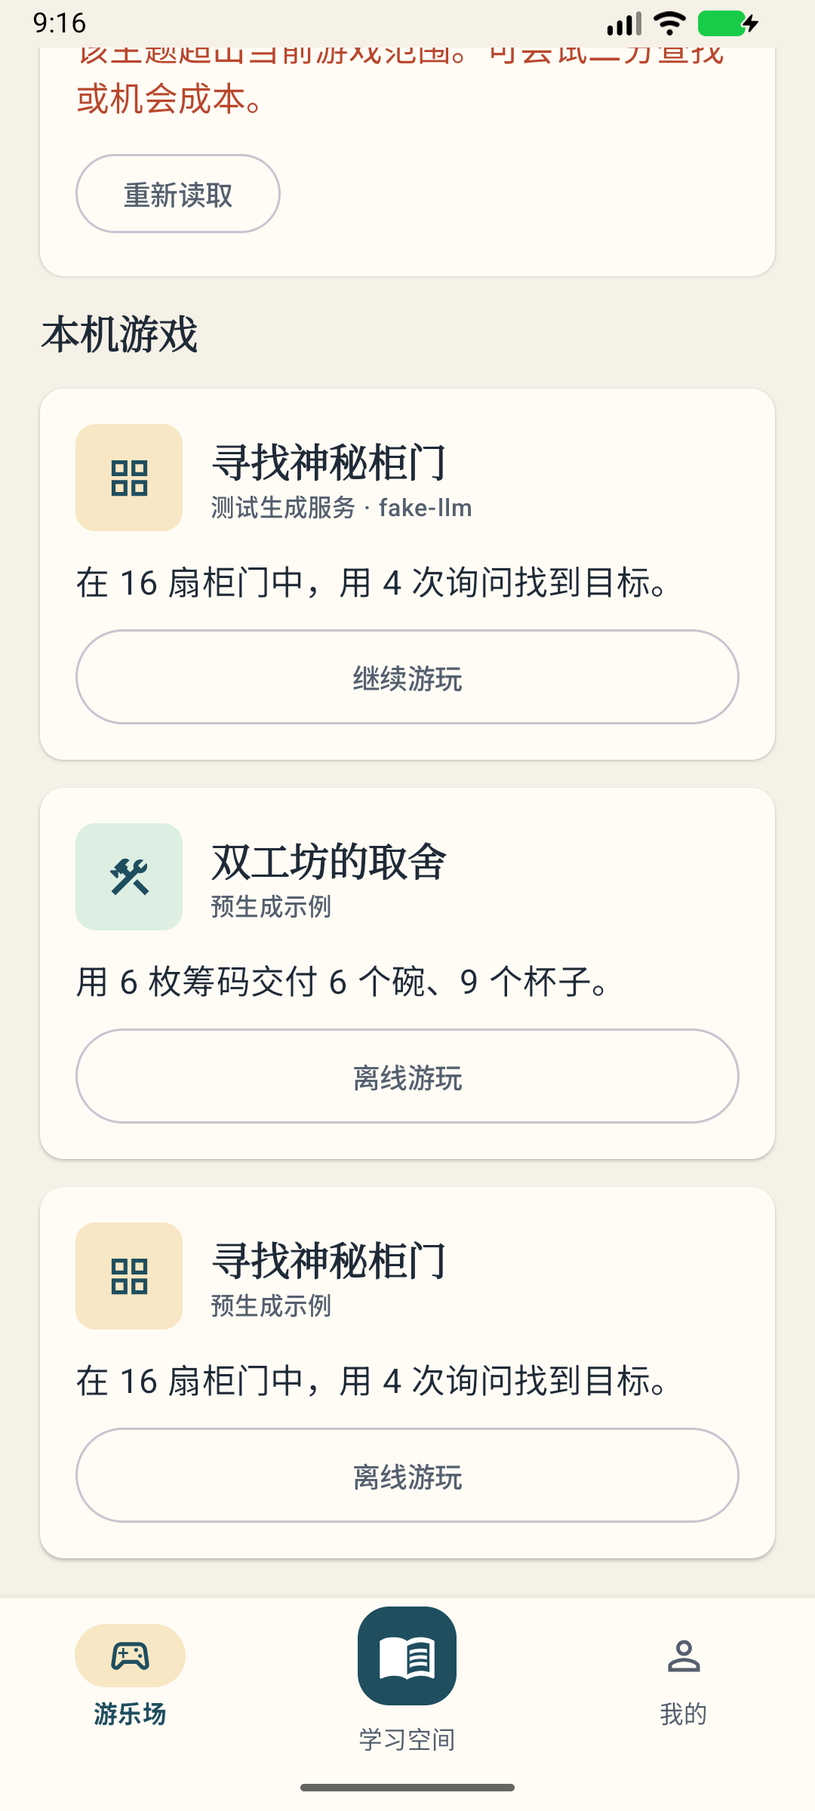
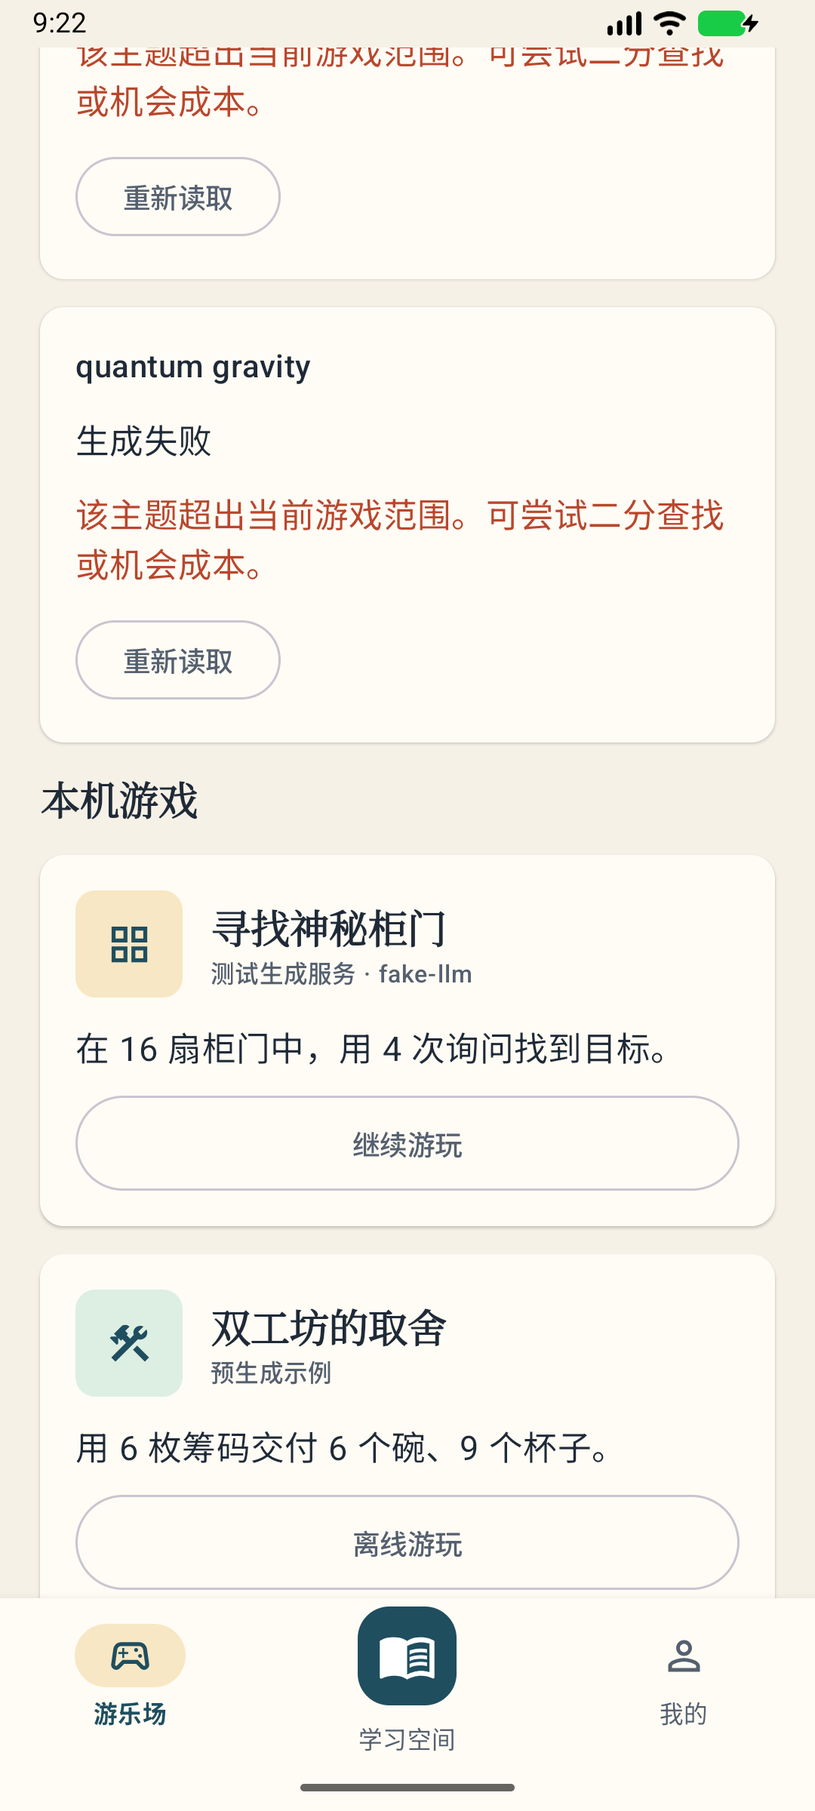
docs: finalize verified games and Spaces release evidence

diff --git a/docs/design/concept-games-spaces-acceptance.md b/docs/design/concept-games-spaces-acceptance.md
@@ -1,6 +1,6 @@
 # Concept games and Spaces — acceptance record
 
-**Scope:** Verification of the API edition's 2026-11-23 update. This record distinguishes automated behavior, Android device observations and untested provider quality. **Final verification in progress:** device scenarios below have run; the Classic selector finding and final branch review are still pending.
+**Scope:** Verification of the API edition's 2026-11-23 update. This record distinguishes automated behavior, Android device observations and untested provider quality. **Verification complete:** final runtime `f54fe7d` passed the automated suites, scoped review and affected device checks. Non-blocking status-cache issues are documented below.
 
 Design: [approved user journeys and repository research](../superpowers/specs/2026-11-23-concept-games-spaces-design.md). Implementation: [shared architecture and API](../architecture/concept-games-spaces.md).
 
@@ -23,7 +23,8 @@ Design: [approved user journeys and repository research](../superpowers/specs/20
 | `f9a6740`, Android data and shared modules | 257 Android + 58 engine + 68 contract tests passed, zero skips. One existing Compose source-reader journey had a transient missing-button failure on the first full run, then passed in a focused run and the unchanged full repeat. |
 | `9180838`, server against final shared runtime | 222 server tests passed, zero failures/errors/skips, including the 42 PostgreSQL cases; fresh run in 29s. |
 | `09c4b74`, final Space migration corrections | 32 recovery/integration/data tests passed, zero skips; normal removal and explicit dismissal both discard unsent membership changes derived from a rejected ADD, and lost acknowledgements preserve the original request. |
-| `9180838`, UI recovery round 1 | 286 Android + 58 engine + 68 contract tests passed, zero failures/errors/skips. Debug APK assembly and direct-AI-access guard passed; lint has zero errors and 66 warnings. The controller independently counted the XML results. Task review approved after the focused sharing correction below; device/final-branch gate pending. |
+| `9180838`, UI recovery round 1 | 286 Android + 58 engine + 68 contract tests passed, zero failures/errors/skips. Debug APK assembly and direct-AI-access guard passed; lint has zero errors and 66 warnings. The controller independently counted the XML results. Task review approved after the focused sharing correction below; device/final-branch gate pending at that revision. |
+| `f54fe7d`, consolidated final corrections | Fresh execution: 303 Android + 228 server + 68 contract + 58 engine = **657 passed**, zero failures/errors/skips, including **45 real PostgreSQL** tests. Lint: zero errors, 66 warnings; direct-AI guard and assembly passed. Controller independently counted all XML reports. |
 
 The UI full run initially exposed two fixture timing races (profile switch after refresh and tapping Start after a diagnostic transition). Their waits were corrected without removing the avatar/profile or source attachment assertions; the fresh complete run passed in 4m 21s. Existing Compose test API deprecation and JDK/Robolectric native-access warnings remain.
 
@@ -35,7 +36,9 @@ The data regressions exercise interrupted practice and tutor writes, concurrent 
 
 ## Device acceptance and screenshots
 
-The real APK was upgraded in place at `a5c204d`. [Screenshot gallery](screens/2026-11-23-concept-games-spaces/) contains unaltered emulator captures, visually inspected; the earlier HTML prototype is not acceptance evidence.
+The dedicated emulator crash buffer was empty after the initial scenarios and again after the final affected checks. This is scoped observation, not a claim about all devices.
+
[1 lines of base64/hex data omitted]
 
 | Scenario | Observed result |
 |---|---|
@@ -48,7 +51,8 @@ The real APK was upgraded in place at `a5c204d`. [Screenshot gallery](screens/20
 | Citation / Tutor | The own-notes citation opens original PDF page 1 of 1 with the quoted sentence highlighted. Three diagnostic answers lead into the actual Tutor explanation, visibly labeled as a test provider. |
 | Generation cancellation | During an actual request to a loopback-only provider deliberately delaying its response, tapping Cancel persisted `cancelled` and installed no artifact. The API was then restored to fake mode. |
 | External PDF share | System Files → share the own-notes PDF → choose the existing, deeply scrolled Learning Lab. Exactly one confirmation survives rotation; cancelling leaves the queue unchanged. |
-| Legacy practice | MapReduce full source reader and Rookie, and Attention Escape open. Classic availability is a known final-fix item. |
+| Legacy practice | MapReduce full source reader and Rookie, Attention Escape and the original bundled spaced-repetition Tutor (focus → diagnostic → explanation) open. On the final APK, selecting Rookie then Classic opens actual Classic practice and saves frame `classic`. |
+| Final language regressions | The old three-PDF Space now installs an English path using its existing Chinese tutors. A fresh English PDF import persists language `en`, creates an English server Tutor and generates a new route. Both Continue and the installed-game card reopen the identical saved Chinese checkpoint under English UI. |
 | Concept generation | Binary search produces an installed native game through the local API; a real split action creates its versioned checkpoint. Unsupported quantum gravity fails with a useful message; explicit retry creates a new request and preserves the installed game. |
 
 Reproduce the scripted portion on a dedicated emulator with an installed APK and an initially unplayed sample profile:
@@ -76,6 +80,10 @@ For the share regression, leave the target Space Materials scrolled below its to
 
 Use an English IME for ASCII adb text fixtures and verify the committed field text. Pinyin composition is not equivalent to saved text. UI actions use current hierarchy bounds; dialog text can appear twice (title and action), and separate dialog windows do not expose all Compose test tags.
 
+## Final review
+
+The independent whole-branch review at `450662f` identified six Important corrections: source-deletion revocation, tutor language fallback/import language, intrinsic Classic availability, independent local Tutor identity, immutable PDF editions, and game access after locale changes. Five smaller findings concern localized errors, repeated/lazy catalog reads, repair of damaged content and imported-game attribution. All eleven findings were addressed in `f54fe7d`. Focused regressions passed (72 Android and 34 server), followed by the fresh 657-test run above. The scoped independent re-review confirmed all eleven addressed, with no new Critical or Important regression. Final affected device checks passed: locale-switched game continuation, both English route scenarios, Classic selection and play, localized import error, old PDF source access, retained Case progress and unchanged legacy mastery/avatar files.
+
 ## Decisions made during implementation
 
 - The user's explicit approval covers implementation, tests, screenshots and a feature-branch push. Historical proposal wording does not reopen approval. An incorrect interpretation would cost reversible feature rework; the branch is not merged into main automatically.
@@ -86,6 +94,14 @@ Use an English IME for ASCII adb text fixtures and verify the committed field te
 - The Space list shows one clearly labeled profile-wide weekly learning-day summary. Each card has its own material count, node completion and next activity. Per-Space calendars would need filtering through the same progress implementation; global days are not relabeled as a particular Space's days.
 - A game route node must reference the final transfer activity that the engine can credit. Intermediate practice-stage references are rejected before activation. Supporting separate stage completion later would require explicit progress semantics, not fabricated credit.
 - New game and Space-path results are published as one validated archive. They do not support regenerating just failed parts. An unexpected partial result needs an explicit whole-request regeneration, including the current Space exclusions. Per-file PDF retries and the legacy compile flow remain separate existing capabilities.
+
+- The final review explicitly sets aside arbitrary-topic/script generation, additional mechanisms, personalized course controls/favorites, cross-device progress sync and remote erasure of downloaded offline files. These follow the approved release boundary; their cost is future implementation or separate evaluation. Server-side source deletion remains within the release contract.
+
+- Tutor references use an explicit optional session identity in the shared contract. V1 remains compatible; v2 is introduced by this release. Old interim v2 references migrate only when a verified match is unique, otherwise the route needs refresh. This avoids implicit identity encoded in opaque node IDs; the cost is a refresh for an ambiguous interim path.
+
+- The scoped re-review found one non-blocking status defect: a path cached as Ready before its source is deleted can retain its Install button. The server rejects that download; reopening does not yet refresh the terminal ticket. Generating a new route remains available. This is deferred status handling, with the cost of a repeated 404 and stale card; deleted content remains inaccessible.
+
+- Device QA also observed a Ready/Install card remaining in memory immediately after automatic path installation; the installation is durable and reopening the screen clears that card. This presentation-only cache issue is deferred alongside the terminal-status refresh issue above; its cost is a redundant action until re-entry, without lost progress or repeated generation.
 
 ## Limits
 

diff --git a/docs/architecture/concept-games-spaces.md b/docs/architecture/concept-games-spaces.md
@@ -100,11 +100,11 @@ The existing `/v1/documents`, tutor, compile and package APIs remain available. 
 
 A server-generated path organizes actual owned, version-matching tutor and practice activities. It currently selects up to 16 introductory nodes, taking at most the first available tutor concept and first completed-package level per uploaded member. It can group and order those activities and establish prerequisites. It does not fabricate an activity ID or turn a plain uploaded document into an already generated lesson.
 
-Practice references use package ID, content version and level ID. Tutor references use document ID, document version and the actual concept ID; their session key is resolved on the device. PDF evidence always includes document/version/chunk, quote and page. Two documents may have a chunk called `c1` without sharing its identity.
+Practice references use package ID, content version and level ID. Tutor references use document ID, document version, the actual concept ID and an optional explicit session ID. New generated paths include the selected session. Local scripted lessons retain their own pack/edition session identity, so matching document labels cannot merge independent lessons or their progress. Old unqualified references bind only to a unique verified matching-language session; ambiguous references need refresh. PDF evidence always includes document/version/chunk, quote and page. Two documents may have a chunk called `c1` without sharing its identity.
 
 A whole-game route reference names its final transfer completion activity. Earlier practice stages do not independently grant completion. A path containing a non-creditable game reference must be rejected before activation, rather than leaving a dependent node permanently locked.
 
-Unavailable or local-only members appear in `excludedMembers`. An excluded local pack remains usable in the device's route, which keeps its existing tutor/practice nodes. An included dependency must resolve to an actual activity before the path is installed or opened. When the requested practice language is unavailable, the server can select the newest available alternative, retaining its actual content and title.
+Unavailable or local-only members appear in `excludedMembers`. An excluded local pack remains usable in the device's route, which keeps its existing tutor/practice nodes. An included dependency must resolve to an actual activity before the path is installed or opened. Tutor selection prefers the requested language and can use the other supported language’s existing session, retaining its actual concept, session and evidence. Practice selection scans lazily for the newest matching-language package, retaining the first valid alternative as fallback. A language switch does not make existing uploaded materials unavailable.
 
 Space membership is mutable organization. A generated path and its content versions are immutable artifacts. Removing a relationship does not delete the document, installed pack or historical learning records. An active run remains pinned to its original content version.
 
@@ -114,7 +114,7 @@ Flyway V3 preserves old compile records, permits source-free typed jobs, and sco
 
 Quota admission checks the owner and global budgets together. A global rejection cannot spend the owner's allowance. Recovery cleanup and publication both check the live, unexpired lease and nonterminal state. A delayed old worker cannot remove or publish over a replacement's result. Cancellation retains the concurrency slot until the underlying coroutine exits.
 
-A path is readable only after its archive is written and its job is READY. Source deletion cancels dependent queued/running jobs. Publication rechecks the Space revision and source catalog. Two jobs generated from the same revision cannot both activate paths; a stale loser returns `SPACE_STALE` without a ready archive.
+A path is readable only after its archive is written and its job is READY. Source deletion cancels dependent queued/running jobs and revokes affected historical path archives, including paths whose member was removed earlier. Revocation removes their downloadable bytes and invalidates active pointers without rolling Space revisions backward. Unreadable historical path archives fail closed during deletion; unrelated valid paths remain available. Publication rechecks the Space revision and source catalog. Two jobs generated from the same revision cannot both activate paths; a stale loser returns `SPACE_STALE` without a ready archive.
 
 New game/path jobs publish one validated archive, not independently published partial stages. A ready path may explicitly exclude unavailable or local-only sources. The reused job enum also contains the legacy compile `PARTIAL` value; an unexpected partial new-activity result offers explicit whole-request regeneration, not a failed-part repair protocol. Each confirmed PDF import remains independently retryable without repeating successful siblings.
 
@@ -128,9 +128,11 @@ Game actions, checkpoints and completion records use one atomic learning snapsho
 
 All current learning days derive from the same completion projection. Event records retain their actual time zone and local date; moving between Spaces does not duplicate global credit. Opening an activity, reading a reply and completing a changed-condition game challenge remain distinct outcomes.
 
-Space edits and generation submissions retain durable request IDs. Definitive rejections expose retry or withdrawal; an ambiguous response reuses the original body and ID. PDF upload is the exception because the legacy upload endpoint has no idempotency key. The queue marks an upload as uncertain before dispatch and records the returned document before subsequent processing. After an unknown outcome it waits for an explicit decision to upload again. Configuration failures known to occur before dispatch allow ordinary retry.
+Space edits and generation submissions retain durable request IDs. Definitive rejections expose retry or withdrawal; an ambiguous response reuses the original body and ID. PDF upload is the exception because the legacy upload endpoint has no idempotency key. The queue captures the selected tutor language with the confirmed batch so a resumed upload keeps the same language. It marks an upload as uncertain before dispatch and records the returned document before subsequent processing. After an unknown outcome it waits for an explicit decision to upload again. Configuration failures known to occur before dispatch allow ordinary retry.
 
-Evidence resolution checks the exact profile document before looking for a matching retained preset edition. Automatic bundled copies use separate hash-keyed files, so they cannot overwrite an uploaded PDF even if an upload finishes during source lookup. Page geometry and citations retain their original document/content versions.
+Evidence resolution checks the exact profile document before looking for a matching retained preset edition. Automatic bundled copies use separate hash-keyed files, so they cannot overwrite an uploaded PDF even if an upload finishes during source lookup. PDF bytes are content-addressed and edition/attachment records publish atomically only after their matching bytes are durable. Legacy records remain readable; separate measured editions with the same extracted-text labels stay separate. Page geometry and citations retain their original document/content versions.
+
+A Space-list refresh reuses one material inventory and progress snapshot across its cards. Installed generated/imported games and active runs remain reachable after a locale change; the locale selects bundled suggestions. Imported generator metadata is distinguished from authenticated generation provenance.
 
 ## Verification commands
 

diff --git a/docs/design/screens/2026-11-23-concept-games-spaces/README.md b/docs/design/screens/2026-11-23-concept-games-spaces/README.md
@@ -1,6 +1,6 @@
 # Actual Android screenshots — 2026-11-23
 
-Unaltered captures from the debug APK on the dedicated API 37 arm64 emulator (1080 × 2400). The sample profile was upgraded in place from the original APK. These are application screens, not design mockups. See the [acceptance record](../../concept-games-spaces-acceptance.md) for scenarios and limits.
+Unaltered captures from the debug APK on the dedicated API 37 arm64 emulator (1080 × 2400). The sample profile was upgraded in place from the original APK. Initial captures use `a5c204d`; final-fix captures use `f54fe7d` (08, 13, 18, 26 and 28–31). The debug APK includes the cached verified sample PDFs. These are application screens, not design mockups. See the [acceptance record](../../concept-games-spaces-acceptance.md) for scenarios and limits.
 
 | Playground | Partition game | Resource allocation |
 |---|---|---|
@@ -25,3 +25,13 @@ The route uses the explicit fake provider: `mock` labels are visible. The source
 [PDF Tutor explanation](20-notes-tutor.png) uses the repository-authored notes. Successful generation uses explicit fake fixtures; cancellation used a controlled loopback delay endpoint. Neither establishes live-model educational quality.
 
 [External PDF sharing confirmation](24-external-share-confirmation.png) remains visible above a previously scrolled Materials list after rotation.
+
+[Upgraded ResNet Case](08-legacy-resnet-case.png) resumes the original question 3 of 5 with credibility 3 and the retained Pip character.
+
+[Bundled offline Tutor](25-legacy-offline-tutor.png) still completes focus and diagnostic steps and opens its original explanation.
+
+| Resume after locale change | Classic restored | Fresh English route |
+|---|---|---|
+| <img src="26-locale-game-resumed.png" width="240" alt="The same saved Chinese game resumed with English UI"> | <img src="28-classic-restored.png" width="240" alt="Classic selected after Rookie in migrated Materials"> | <img src="31-fresh-english-route.png" width="240" alt="A newly imported English PDF with an installed English route"> |
+
+[Actual Classic practice](29-classic-player.png), [fresh English import](30-fresh-english-pdf.png), and the recaptured [localized PDF error](13-import-results.png) are from the final implementation. [Manual results](manual-result.json) distinguish the initial scenarios and post-fix verification. The retained three-PDF Space also generated and installed an English route after the fix; its earlier failed request remains in its history.

diff --git a/docs/README.md b/docs/README.md
@@ -24,7 +24,7 @@ Language: documents are in English. Some teammate design docs are in Chinese (ma
 | `design/` | *zh* Three-tab home (Practice / Learn / Me) and local profile; evidence | [home-navigation.md](design/home-navigation.md) · [acceptance](design/home-navigation-acceptance.md) | historical release; navigation superseded by Spaces |
 | `design/` | *zh* Document diagnostic → concept starting point → grounded chat tutor; draft API; local run; evidence | [document-tutor.md](design/document-tutor.md) · [acceptance](design/document-tutor-acceptance.md) | built against fake models; draft schema |
 | `superpowers/specs/` | *zh* General-knowledge mobile games + multi-PDF Spaces: repository research, user journeys, prompt drafts, shared architecture and migration | [concept-games-spaces-design](superpowers/specs/2026-11-23-concept-games-spaces-design.md) | approved, 2026-11-23; implementation acceptance below |
-| `design/` | Concept games and multi-PDF Spaces: automated and Android device evidence | [acceptance](design/concept-games-spaces-acceptance.md) | verification in progress |
+| `design/` | Concept games and multi-PDF Spaces: automated and Android device evidence | [acceptance](design/concept-games-spaces-acceptance.md) | verified; known limits recorded |
 | `architecture/` | Shared native runtime, versioned content, Space/generation APIs and recovery | [concept-games-spaces](architecture/concept-games-spaces.md) | implementation reference |
 | `design/research/` | Research: mobile game feel, learning & narrative games, visual identity & a11y | [research/](design/research/) | 2026-11-19 |
 | `architecture/` | Solution architecture: components, contract, state machines, generation pipeline | [ARCHITECTURE.md](architecture/ARCHITECTURE.md) | draft |

diff --git a/docs/superpowers/specs/2026-11-23-concept-games-spaces-design.md b/docs/superpowers/specs/2026-11-23-concept-games-spaces-design.md
@@ -1,6 +1,6 @@
 # Anything2Game：知识游戏与 PDF 学习空间
 
-**Scope**：API 版三仓库研究、用户故事、手机界面、生成提示词和复用架构。日期：2026-11-23。用户已批准按照本方案实现、测试、保留截图并推送 GitHub；实施计划见相邻 plans 目录。下文研究记录保留设计时点事实，最终交付以测试与验收记录为准。
+**Scope**：API 版三仓库研究、用户故事、手机界面、生成提示词和复用架构。日期：2026-11-23。用户已批准按照本方案实现、测试、保留截图并推送 GitHub；实施计划见相邻 plans 目录。首轮实现已完成，并通过 657 项自动化测试与模拟器验收；下文研究记录保留设计时点事实，具体范围和已知限制以测试与验收记录为准。
 
 本地基线：`3462393`。外部源码按本文末尾记录的提交核查；没有运行这些仓库，也没有用真实模型验证这里提出的提示词。界面预览中的资料数、路线和进度均为演示数据。
 

diff --git a/docs/product/PRODUCT.md b/docs/product/PRODUCT.md
@@ -17,7 +17,7 @@ This is the line that separates us from a summariser or a chat-with-PDF app (Not
 
 ## 2. The current update
 
-The user approved [concept games and multi-PDF Spaces](../superpowers/specs/2026-11-23-concept-games-spaces-design.md). The [acceptance record](../design/concept-games-spaces-acceptance.md) states what has actually passed; device acceptance is still in progress.
+The user approved [concept games and multi-PDF Spaces](../superpowers/specs/2026-11-23-concept-games-spaces-design.md). The [acceptance record](../design/concept-games-spaces-acceptance.md) records the completed automated and emulator checks, screenshots and known limits.
 
 | Entrance | User's next action | Shared foundation |
 |---|---|---|

diff --git a/README.md b/README.md
@@ -6,7 +6,7 @@ CSI301 Mobile Computing group project. Everything is due **2026-12-07** (ad + de
 
 ## Concept games and learning Spaces (2026-11-23)
 
-The API edition is being updated around three entrances. Implementation and device acceptance are tracked in the [acceptance record](docs/design/concept-games-spaces-acceptance.md).
+The API edition now has three entrances. Implementation, test results, screenshots and known limits are recorded in the [acceptance record](docs/design/concept-games-spaces-acceptance.md).
 
 | Tab | What happens |
 |---|---|
